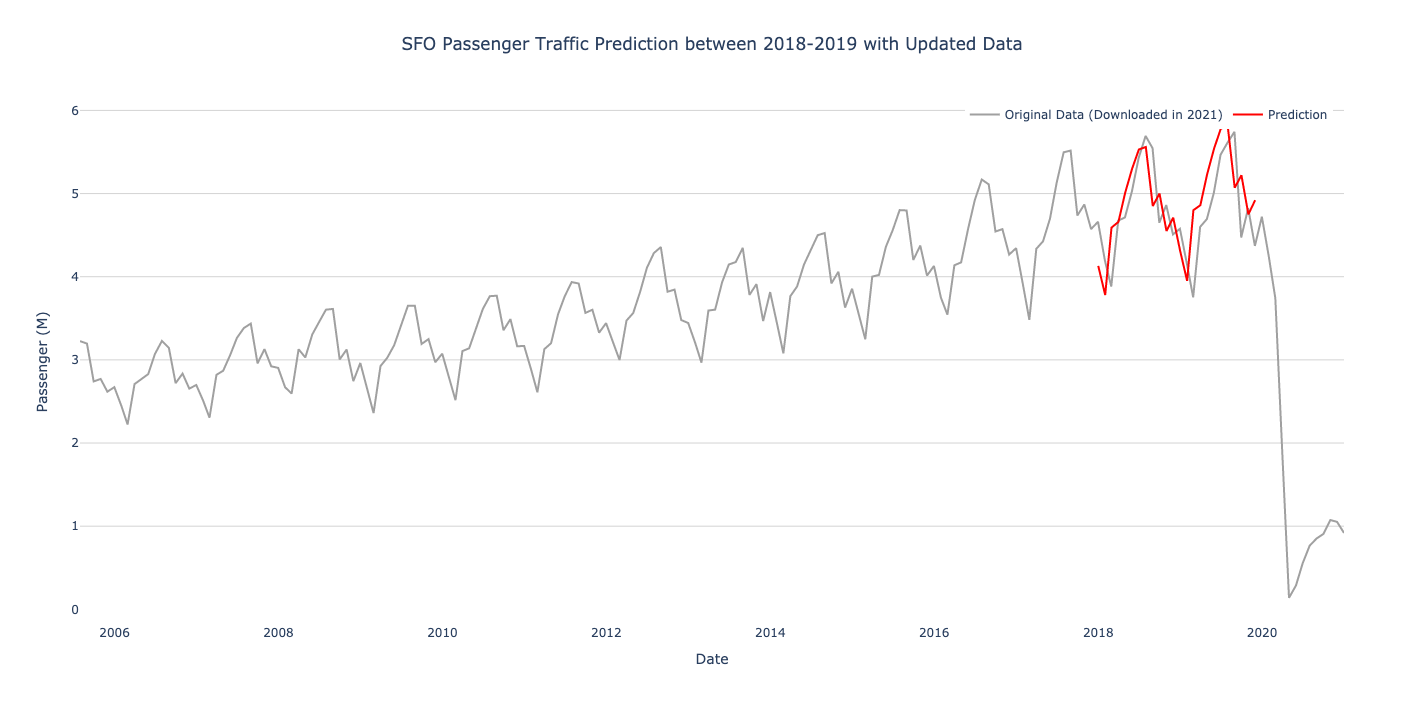
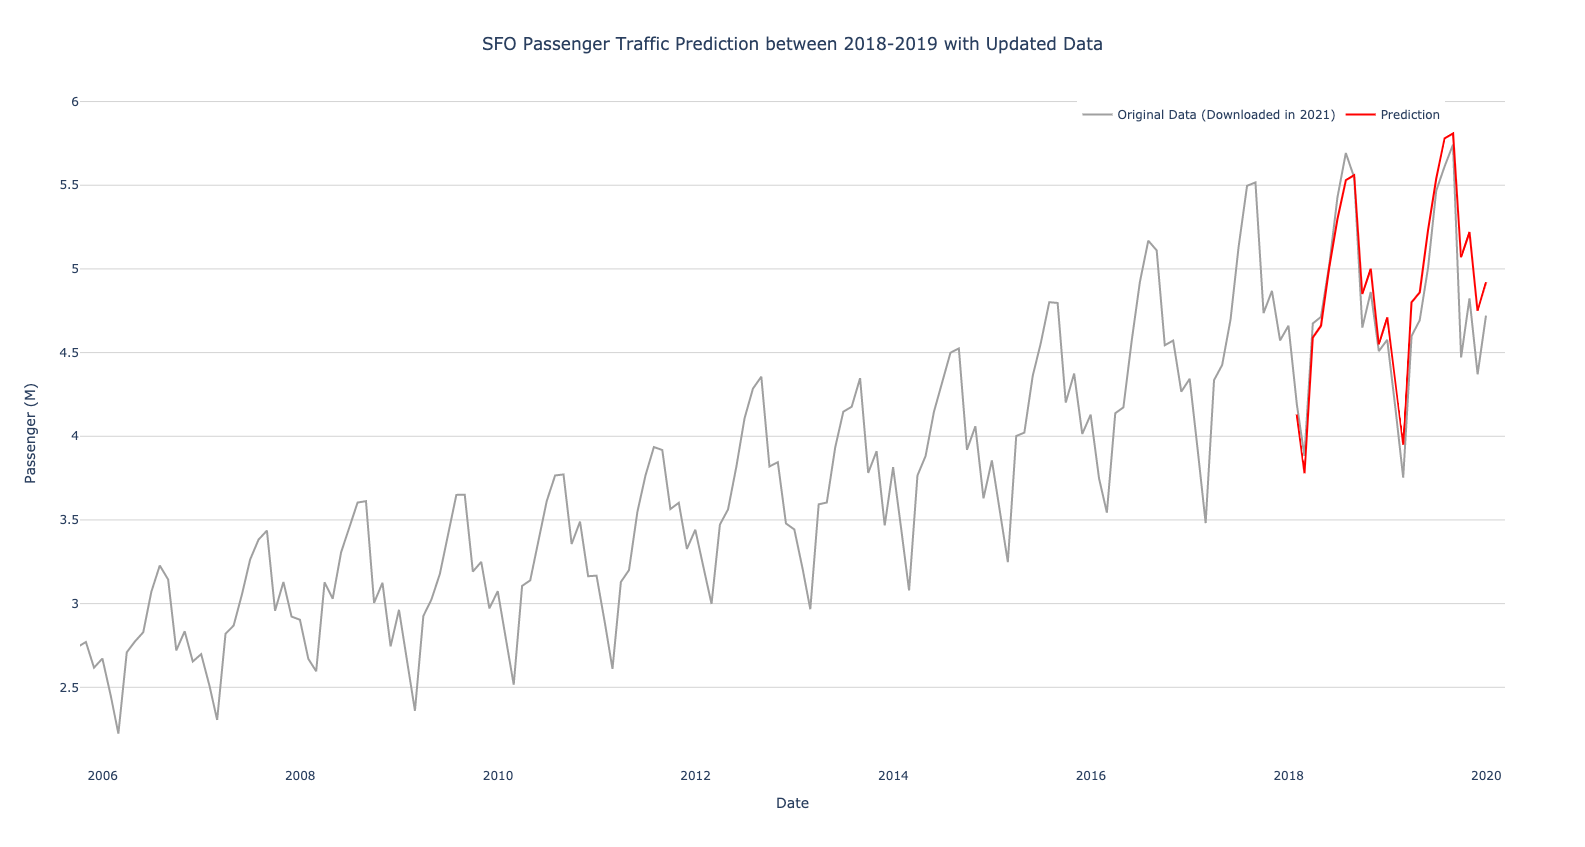
Update comparsions

diff --git a/Part1_1/sfotraffic_compare.py b/Part1_1/sfotraffic_compare.py
@@ -1,4 +1,6 @@
 import pandas as pd
+from pandas.tseries.offsets import MonthEnd
+from sklearn.metrics import mean_squared_error as mse
 import plotly
 import plotly.graph_objs as go
 from plotly.offline import *
@@ -14,9 +16,25 @@ df_pred = pd.read_csv('Results/sfopred.csv')
 # Convert original to Million
 df_2020['pax_count'] = df_2020['pax_count']/1000000
 # Convert date_str to datetime
-df_pred['date'] = pd.to_datetime(df_pred['date_str'], format='%b, %Y')
-print(df_pred['date'])
+df_pred['date'] = pd.to_datetime(df_pred['date_str'], format='%b, %Y') + \
+                     MonthEnd(1)
+# Filter out 2020 data
+df_2020['date'] = pd.to_datetime(df_2020['date'], format='%Y-%m-%d')
+df_2020['year'] = df_2020['date'].dt.year
+df_2020 = df_2020[df_2020['year']<2020]
 
+# Calculate RMSE with real world data
+df_pred['year'] = df_pred['date'].dt.year
+y_hat = df_pred[(df_pred['year']>2017)&(df_pred['year']<2020)]['pred']
+y = df_2020[df_2020['year']>2017]['pax_count']
+rmse = mse(y, y_hat)**0.5
+# Save the result
+file = open('Results/Part1_1compare.txt','w')
+file.write('The RMSE of the prediction with real world data is: ')
+file.write(f'{rmse:.4f}')
+file.close()
+
+# Plot 2020 data and prediction
 data = []
 data.append(go.Scatter(x=df_2020['date'], y=df_2020['pax_count'],
                        mode='lines', name='Original Data (Downloaded in 2021)',

diff --git a/Part1_1/readme.md b/Part1_1/readme.md
@@ -406,4 +406,4 @@ And it could be visualized as follow:
 ## Reflection
 Coming Soon...
 <br><br><br>
-<img src=pred_compare.png>
+<img src='Images/pred_compare.png'>
